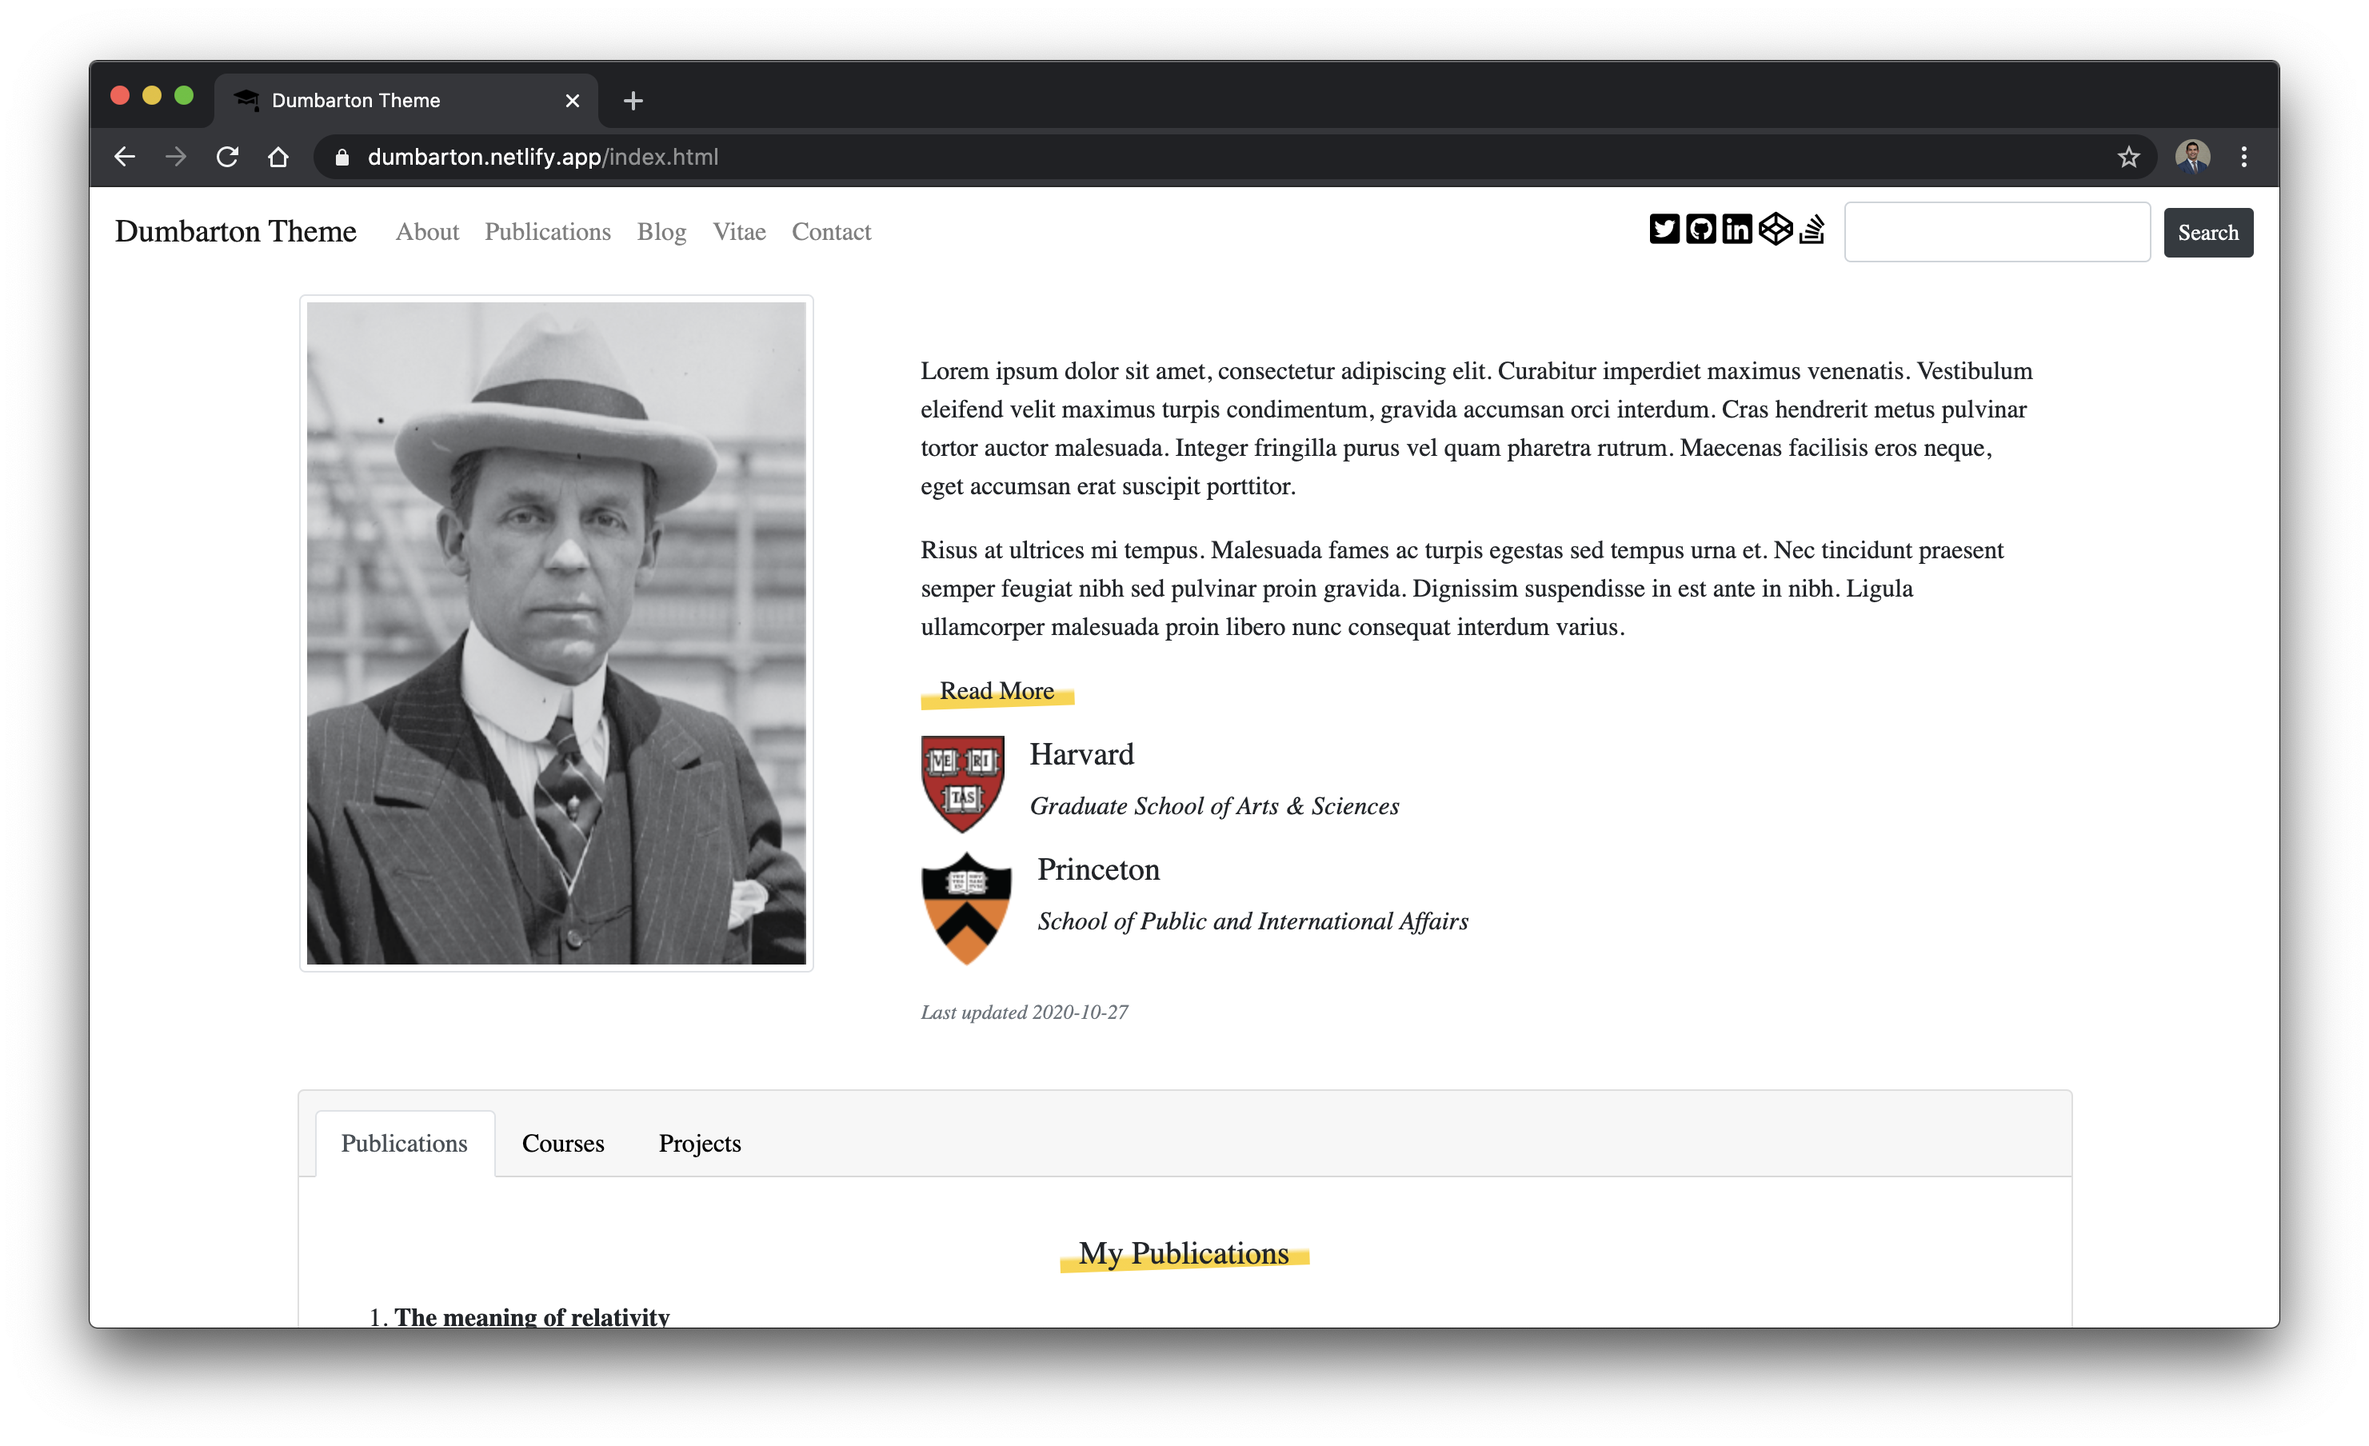
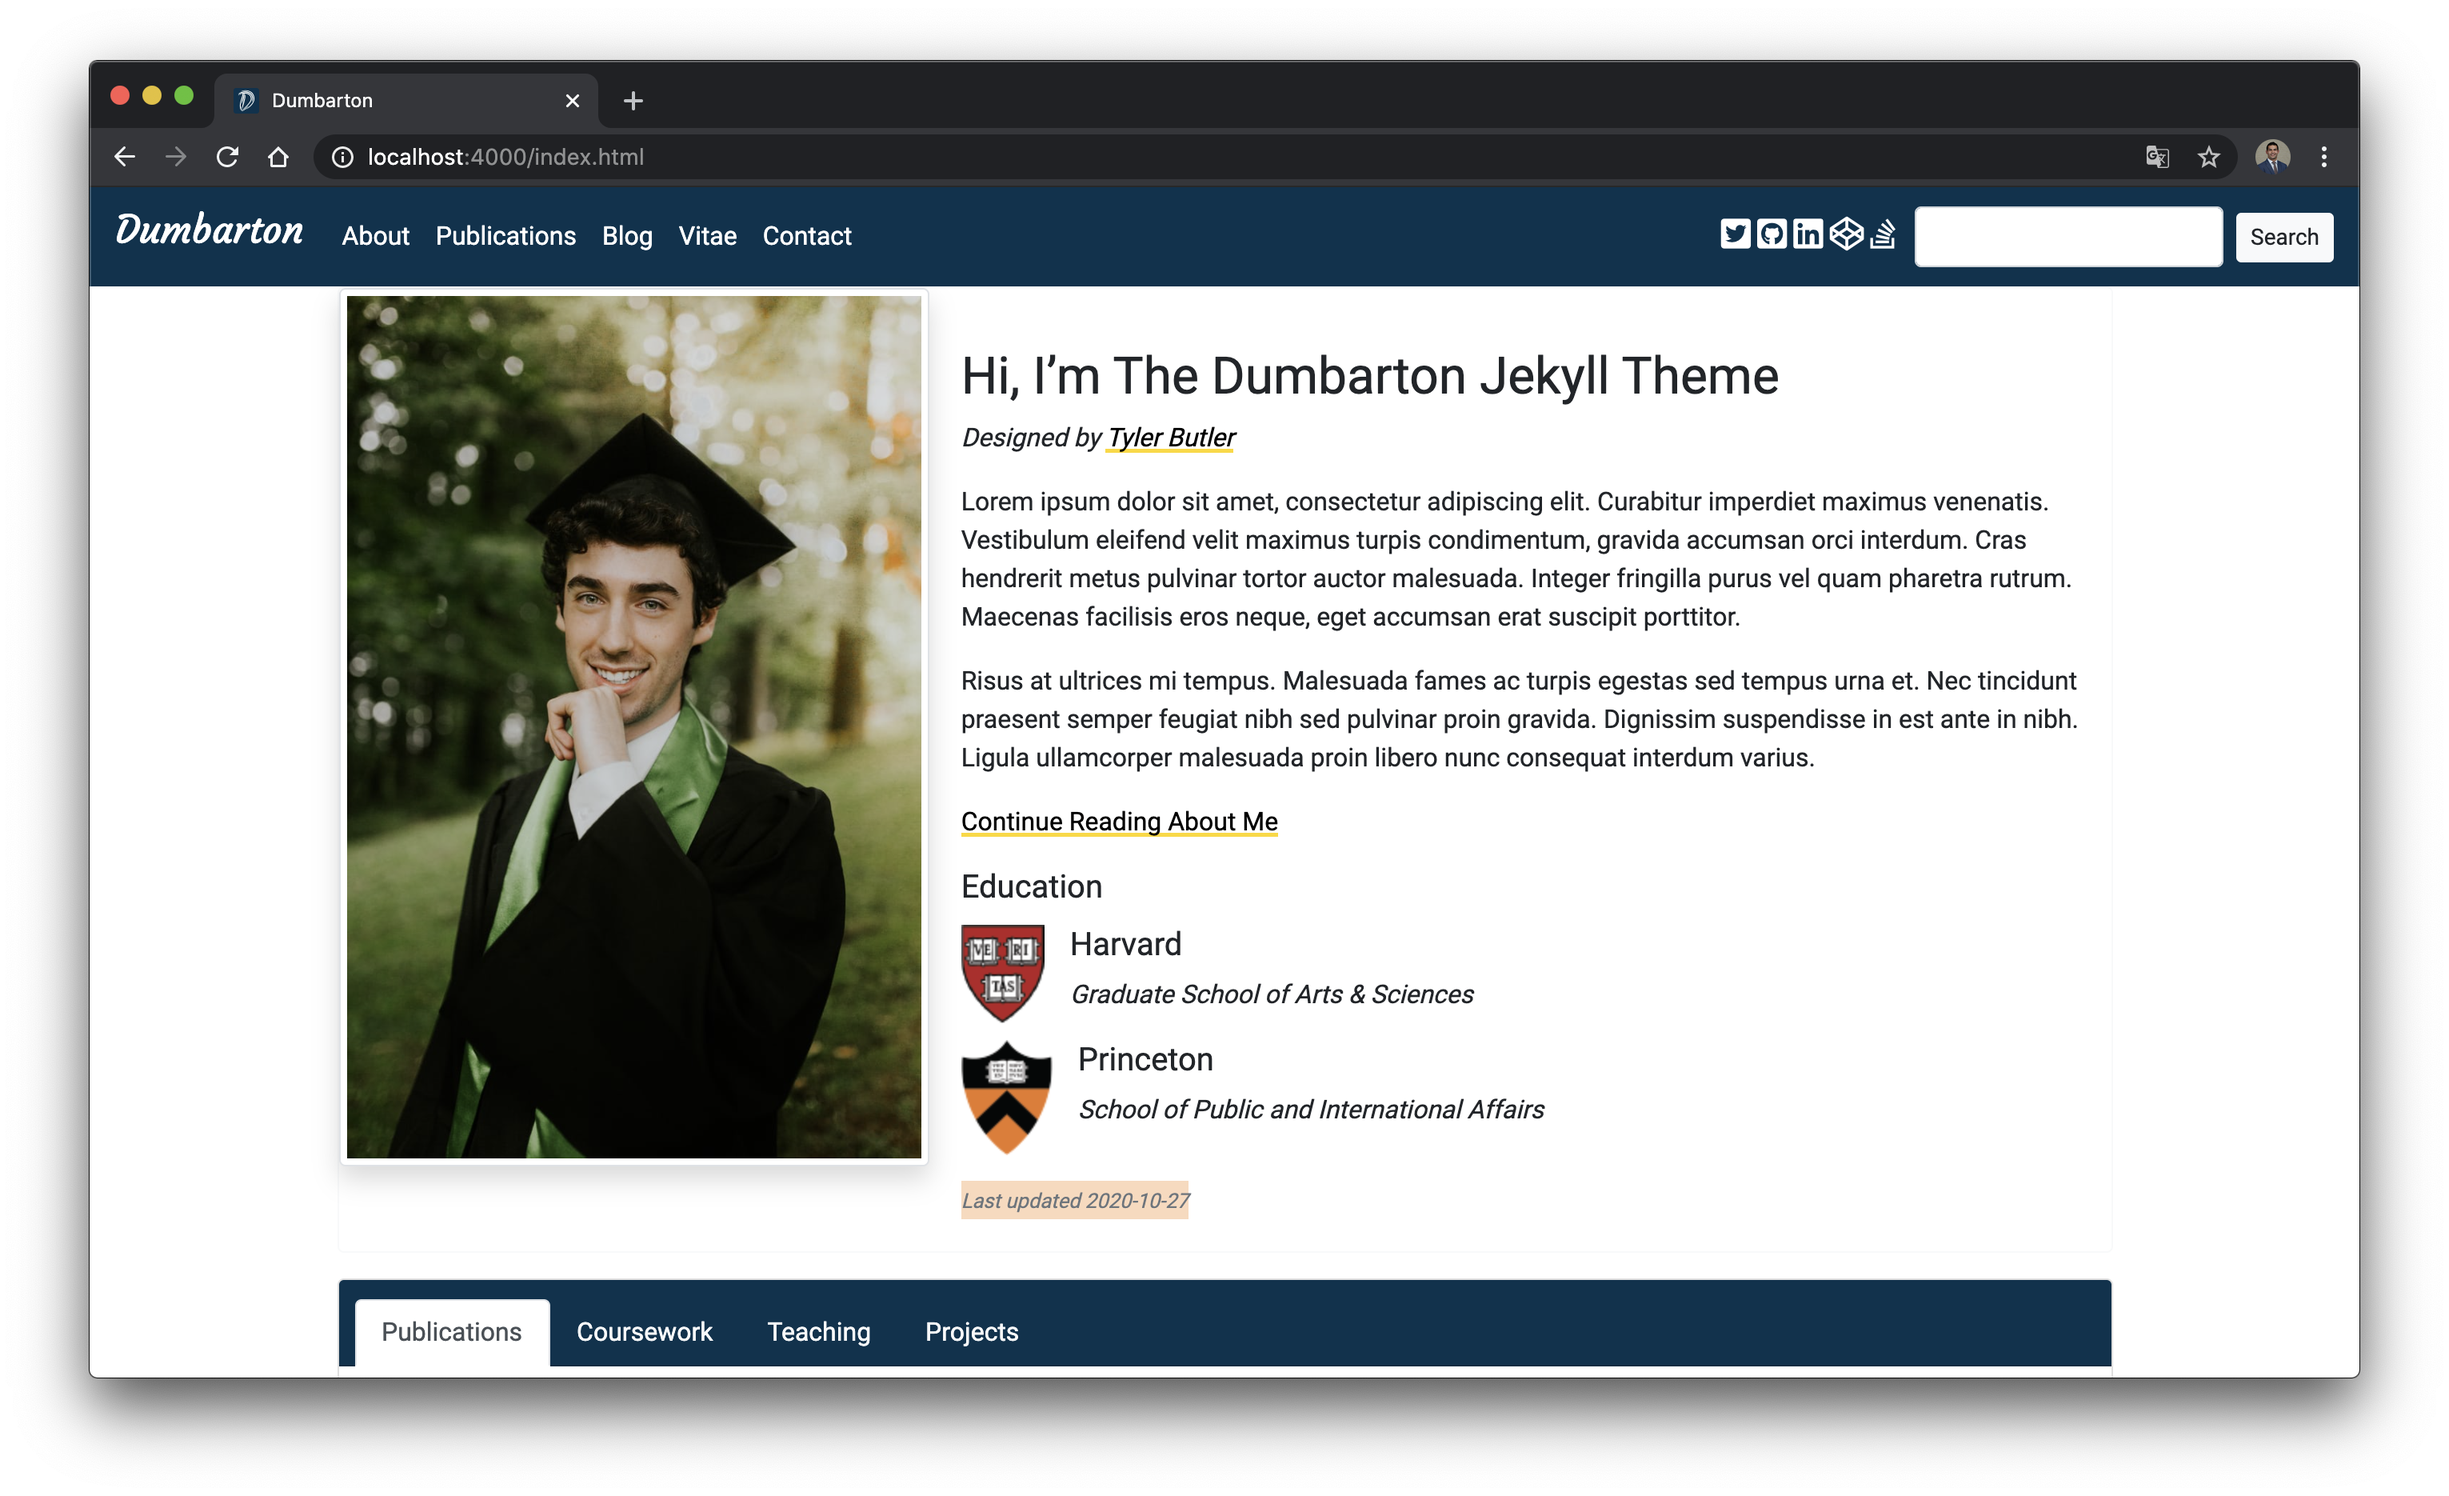
update UI

Changed region(s): [[0.0311, 0.031, 0.9629, 0.9292]]

diff --git a/_layouts/home.html b/_layouts/home.html
@@ -3,11 +3,11 @@ layout: default
 ---
 
 <!-- ABOUT ME SECTION -->
-<div class="card mx-auto border-white" style="max-width: 100%;">
+<div class="card mx-auto border-light">
   <div class="row no-gutters">
     <div class="col-md-4">
       {% if site.animate %}
-        <img src="{{ site.profile_image }}" class="img-thumbnail float-left animate__animated animate__fadeInLeft" alt="...">
+        <img src="{{ site.profile_image }}" class="img-thumbnail float-left animate__animated animate__fadeInLeft shadow bg-white rounded" alt="...">
       {% else %}
         <img src="{{ site.profile_image }}" class="img-thumbnail float-left" alt="...">
       {% endif %}
@@ -15,9 +15,9 @@ layout: default
     <!-- EDUCATION SECTION -->
     <div class="col-md-8">
       {% if site.animate %}
-      <div class="card-body animate__animated animate__fadeInRight">
+      <div class="card-body animate__animated animate__fadeInRight" style:"height: .5rem;">
       {% else %}
-      <div class="card-body" style:"max-height: 40px;">
+      <div class="card-body">
       {% endif %}
         <h5 class="card-title">{{ page.title }}</h5>
         <p class="card-text">{{ content | markdownify }}</p>
@@ -51,7 +51,7 @@ layout: default
 -->
 
 <!-- HOME HIGHLIGHTS SECTION --> 
-<h5 class="card-title text-center"></h5>
+<h5 class="card-title text-center mb-3"></h5>
 {% if site.animate %}
 <div class="card mx-auto animate__animated animate__slideInUp animate__delay-1s" style="max-width: 100%;">
 {% else %}

diff --git a/_includes/footer.html b/_includes/footer.html
@@ -1,14 +1,14 @@
 {% if site.color-scheme=="demo" %}
 <footer class="footer" style="background-color:{{ site.demo-color }};">
     <div class="container">
-     <span class="text-white">{{ site.title }}</span>
+     <span class="text-white" style="font-family:Courgette;">{{ site.title }}</span>
         {% include social.html %}
     </div>
 </footer>
 {% else %}
 <footer class="footer">
     <div class="container">
-     <span class="text-dark">{{ site.title }}</span>
+       <span class="text-white" style="font-family:Courgette;">{{ site.title }}</span>
         {% include social.html %}
     </div>
 </footer>

diff --git a/_includes/nav.html b/_includes/nav.html
@@ -20,7 +20,7 @@
   <a href="/index.html"><img src="/assets/img/icons/favicon.ico" class="dumbarton-icon"></a>
   -->
 {% if site.nav-color == "demo"  %}
-  <a class="navbar-brand text-white" href="/index.html" style="font-family:Courgette;">{{ site.title }}</a>
+  <a class="navbar-brand text-white" href="/index.html"><h4 style="font-family:Courgette;">{{ site.title }}</h4></a>
 {% else %}
   <a class="navbar-brand" href="/index.html">{{ site.title }}</a>
 {% endif %}

diff --git a/index.md b/index.md
@@ -3,11 +3,14 @@ layout: home
 title: 
 date: 2020-10-27
 ---
-## Hi, I'm Dumbarton Theme
+## Hi, I'm The Dumbarton Jekyll Theme  
+*Designed by <a href="https://github.com/tcbutler320" class="highlighted">Tyler Butler</a>*    
+  
+
 Lorem ipsum dolor sit amet, consectetur adipiscing elit. Curabitur imperdiet maximus venenatis. Vestibulum eleifend velit maximus turpis condimentum, gravida accumsan orci interdum. Cras hendrerit metus pulvinar tortor auctor malesuada. Integer fringilla purus vel quam pharetra rutrum. Maecenas facilisis eros neque, eget accumsan erat suscipit porttitor. 
 
 Risus at ultrices mi tempus. Malesuada fames ac turpis egestas sed tempus urna et. Nec tincidunt praesent semper feugiat nibh sed pulvinar proin gravida. Dignissim suspendisse in est ante in nibh. Ligula ullamcorper malesuada proin libero nunc consequat interdum varius.
 
-<a href="/about.html" class="highlighted">Read More</a>
+<a href="/about.html" class="highlighted">Continue Reading About Me</a>
 
 
